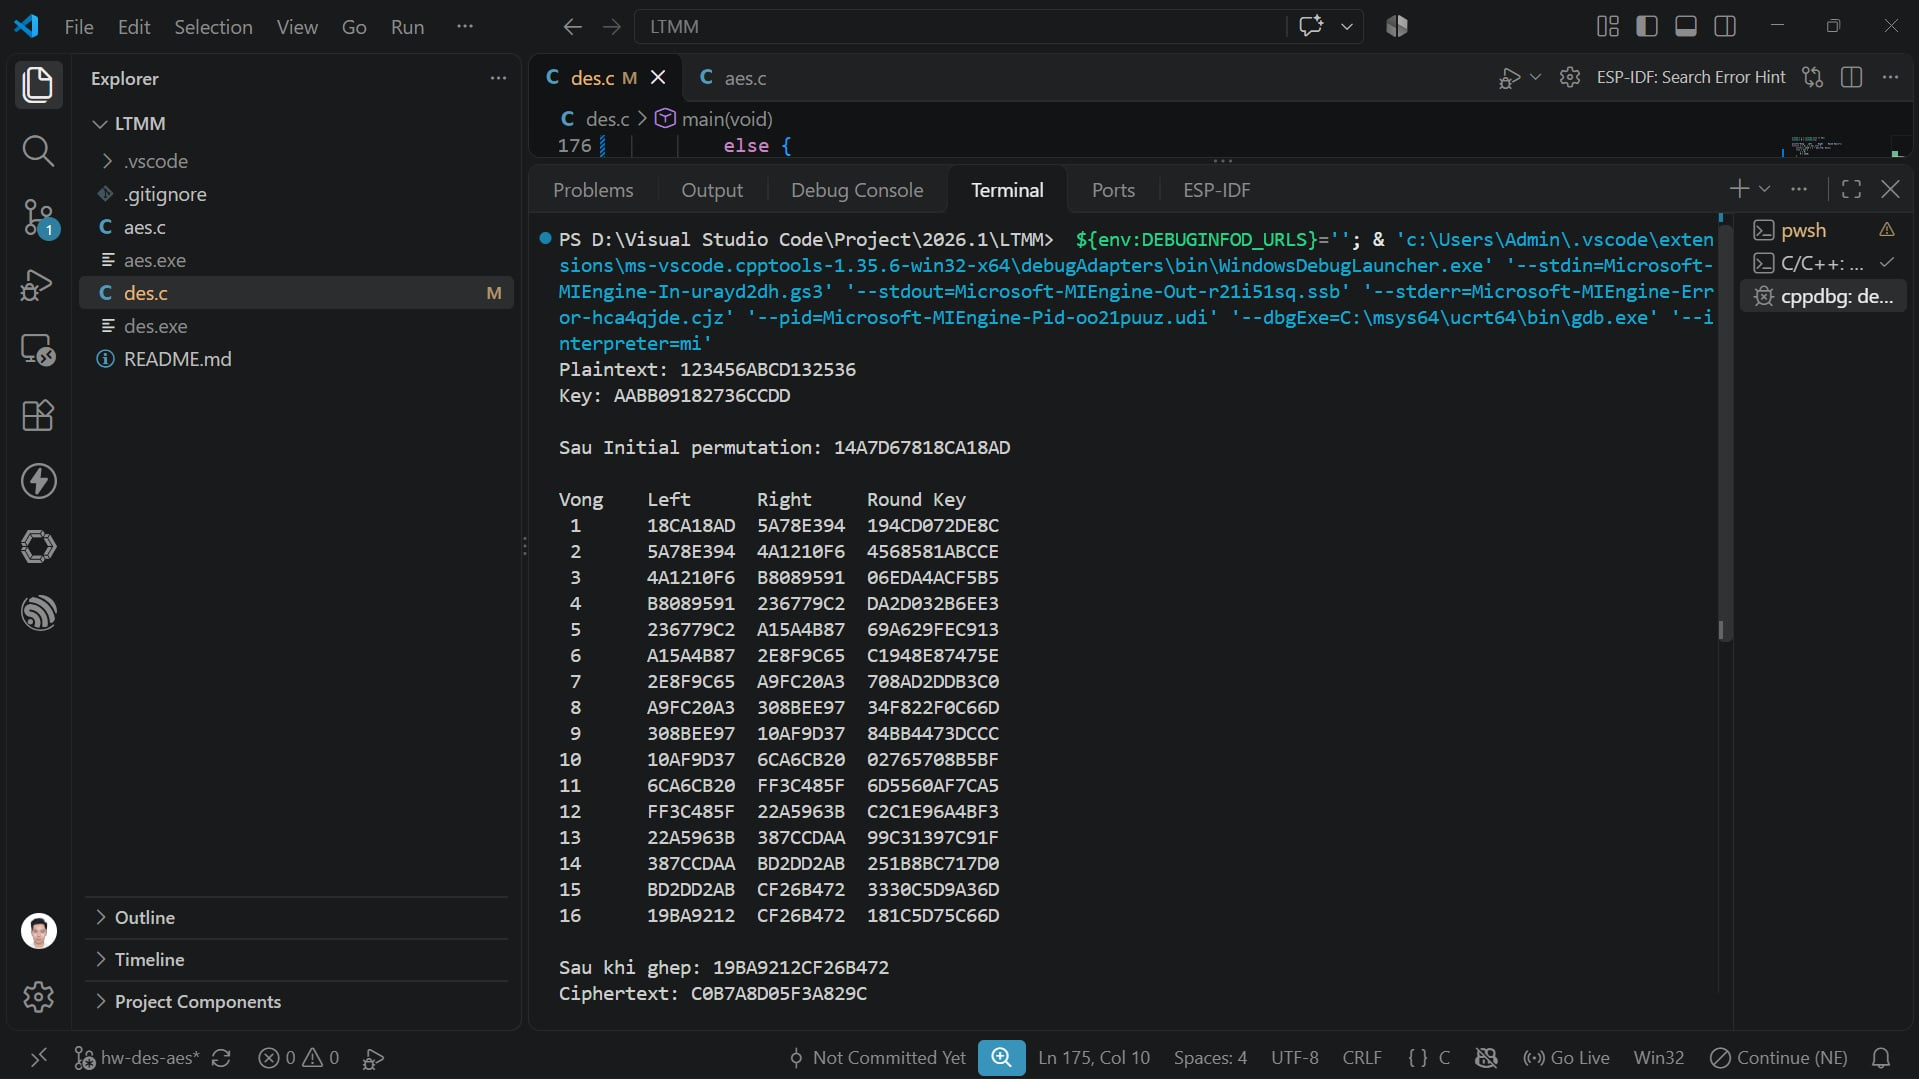
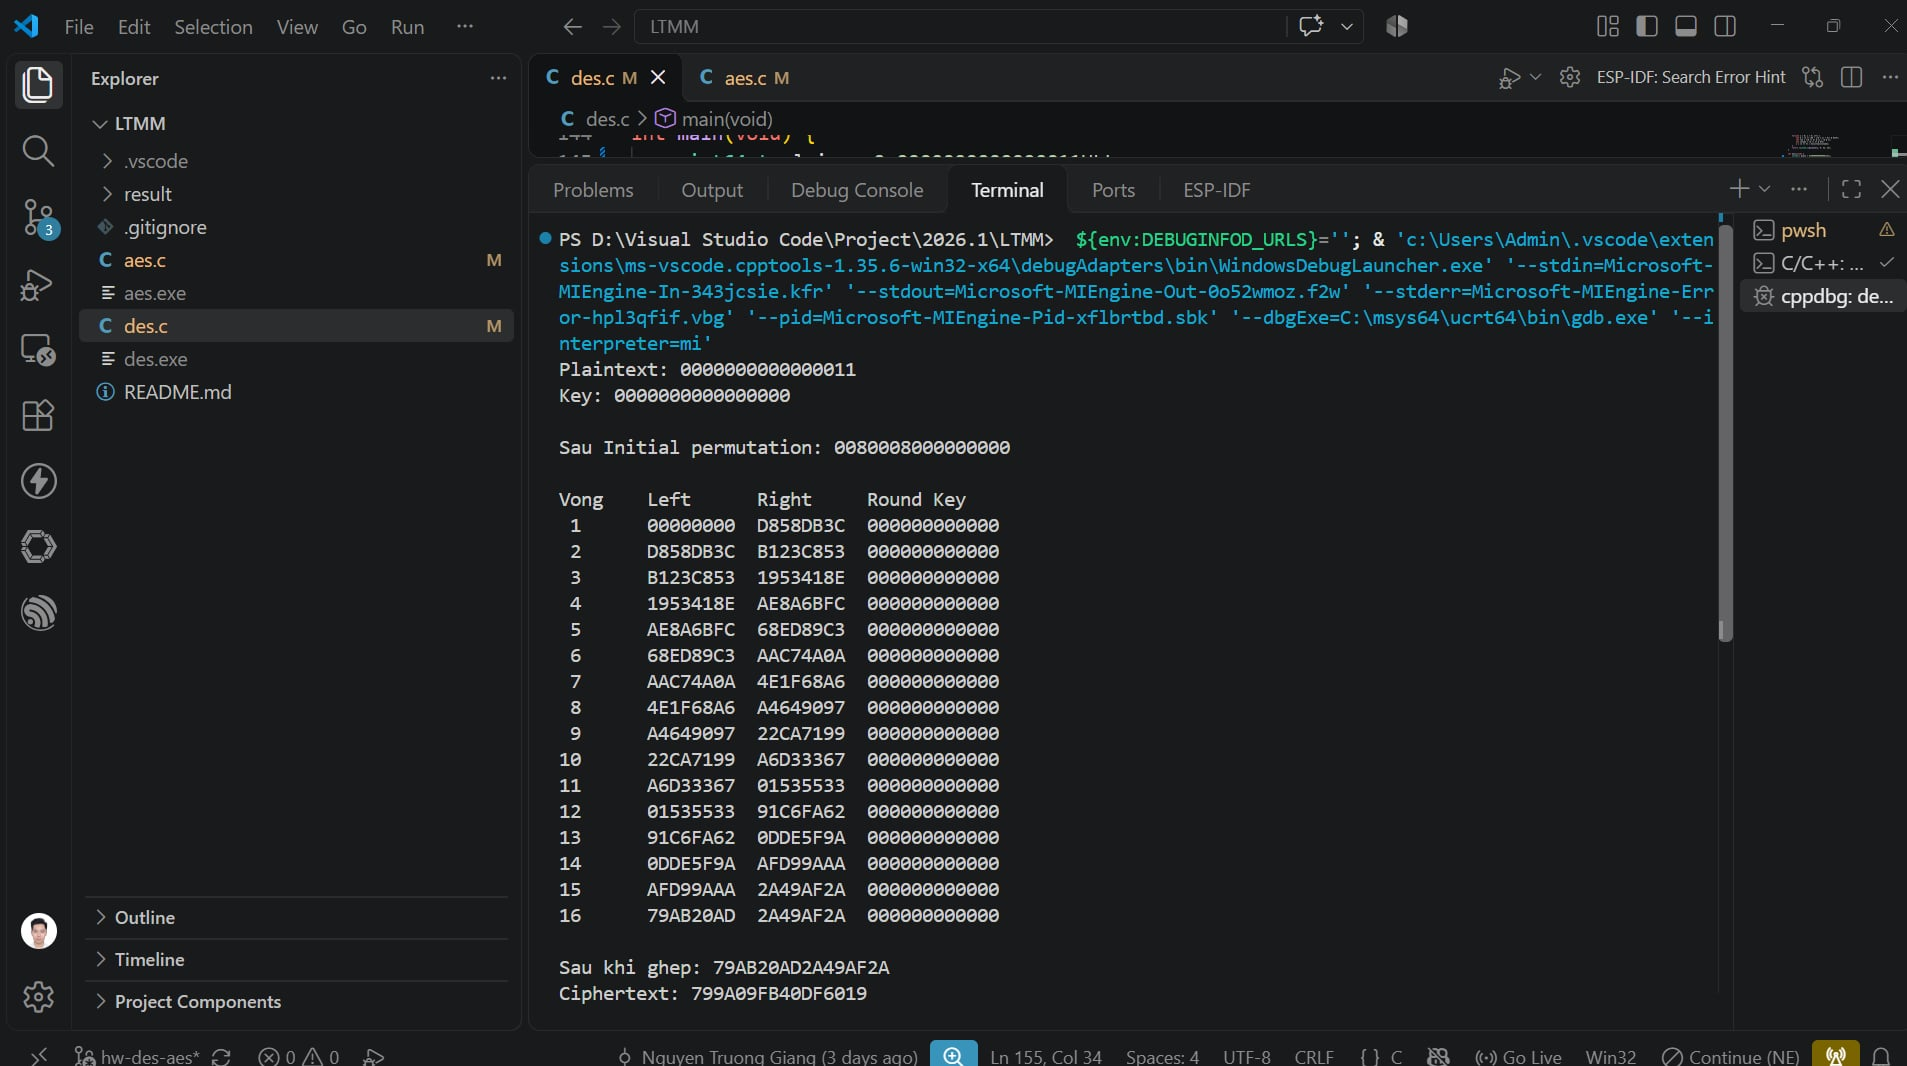
sua loi tron vong va thay du lieu dau vao

diff --git a/aes.c b/aes.c
@@ -74,9 +74,9 @@ void add_round_key(uint8_t s[4][4], uint8_t w[44][4], int round) {
 }
 
 int main(void) {
-    uint8_t in[16] = {0x00, 0x04, 0x12, 0x14, 0x12, 0x04, 0x12, 0x00, 0x0C, 0x00, 0x13, 0x11, 0x08, 0x23, 0x19, 0x19};
-    uint8_t key[16] = {0x24, 0x75, 0xA2, 0xB3, 0x34, 0x75, 0x56, 0x88, 0x31, 0xE2, 0x12, 0x00, 0x13, 0xAA, 0x54, 0x87};
-
+    uint8_t in[16] = {0x00, 0x00, 0x00, 0x00, 0x00, 0x00, 0x00, 0x00, 0x00, 0x00, 0x00, 0x00, 0x00, 0x00, 0x00, 0x11};
+    uint8_t key[16] = {0x00, 0x00, 0x00, 0x00, 0x00, 0x00, 0x00, 0x00, 0x00, 0x00, 0x00, 0x00, 0x00, 0x00, 0x00, 0x00};
+    
     uint8_t s[4][4];
     for(int r = 0; r < 4; r++) {
         for(int c = 0; c < 4; c++) {
@@ -135,7 +135,9 @@ int main(void) {
         memcpy(sb, s, 16);
         shift_rows(s);
         memcpy(sr, s, 16);
-        mix_columns(s);
+        if(round < 10) {
+            mix_columns(s);
+        }
         memcpy(mc, s, 16);
         add_round_key(s, w, round);
 

diff --git a/des.c b/des.c
@@ -142,8 +142,8 @@ uint32_t des_f(uint32_t R, uint64_t K) {
 }
 
 int main(void) {
-    uint64_t plain = 0x123456ABCD132536ULL;
-    uint64_t key   = 0xAABB09182736CCDDULL;
+    uint64_t plain = 0x0000000000000011ULL;
+    uint64_t key   = 0x0000000000000000ULL;
 
     printf("Plaintext: %016llX\n", (unsigned long long)plain);
     printf("Key: %016llX\n\n", (unsigned long long)key);
